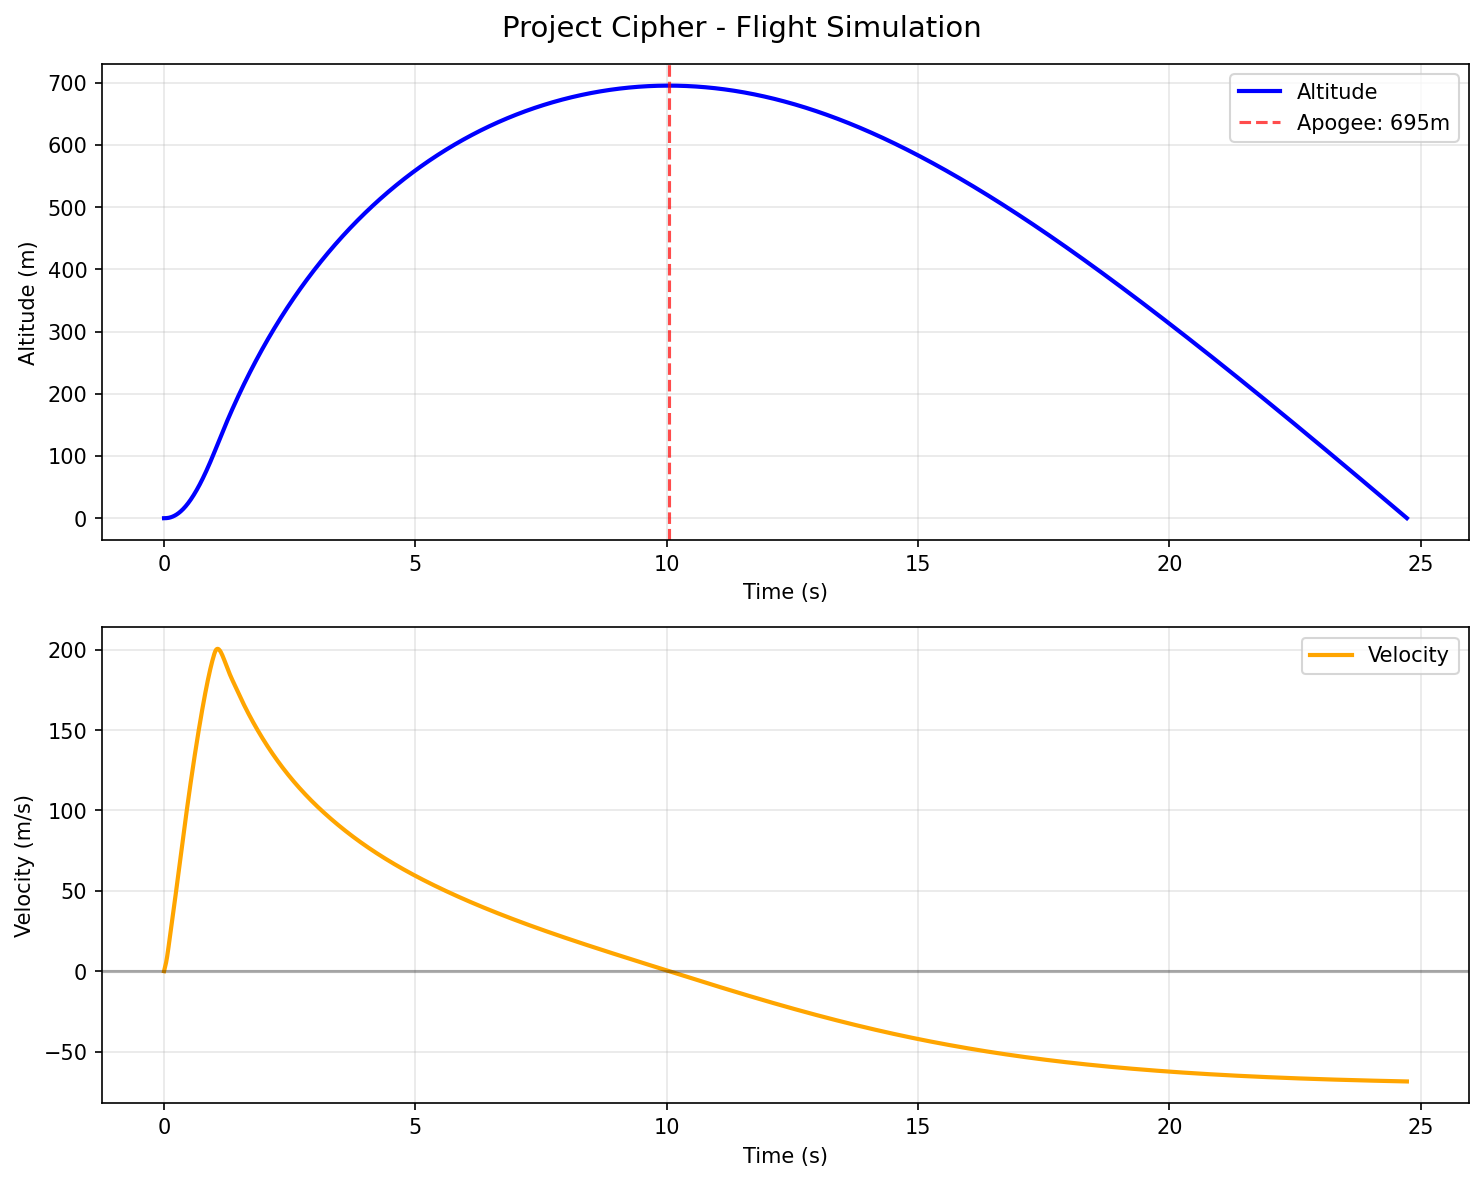
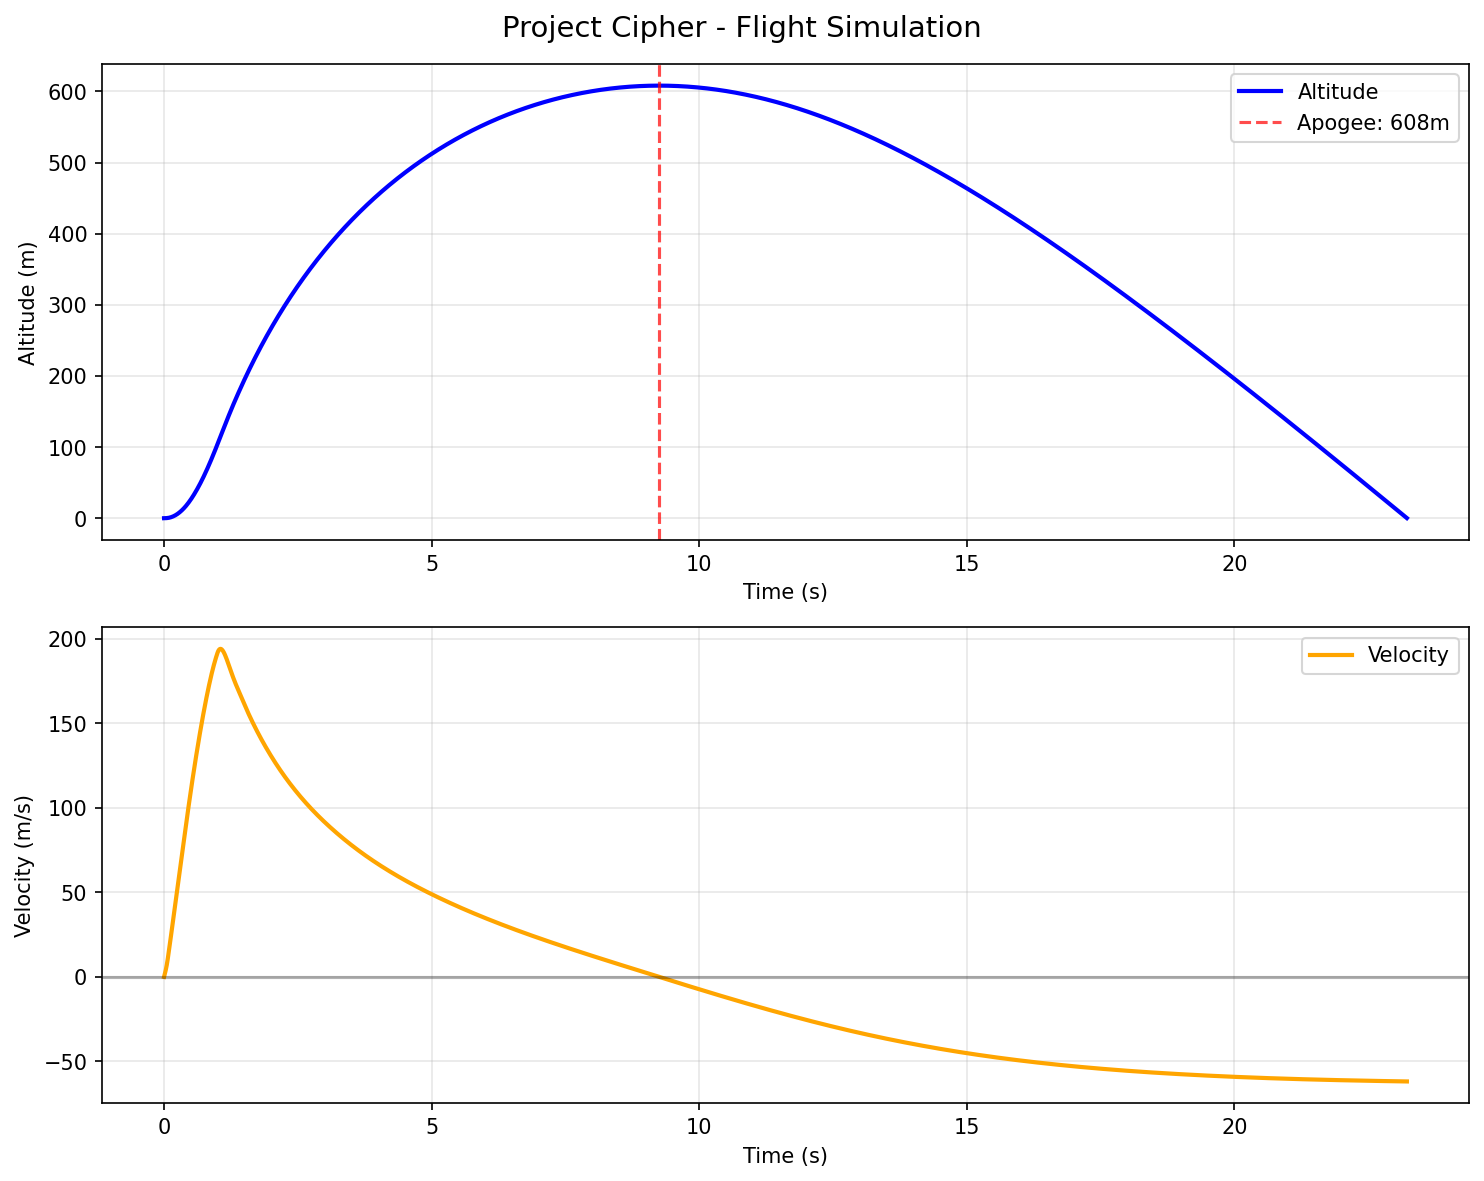
Merge branch 'main' of https://github.com/reajul25/project-cipher

diff --git a/simulation/python/flight_sim.py b/simulation/python/flight_sim.py
@@ -9,7 +9,7 @@ diameter = 0.0668
 radius = diameter / 2
 area = np.pi * radius**2
 
-Cd = 0.6
+Cd = 0.75
 rho = 1.225
 g = 9.81
 